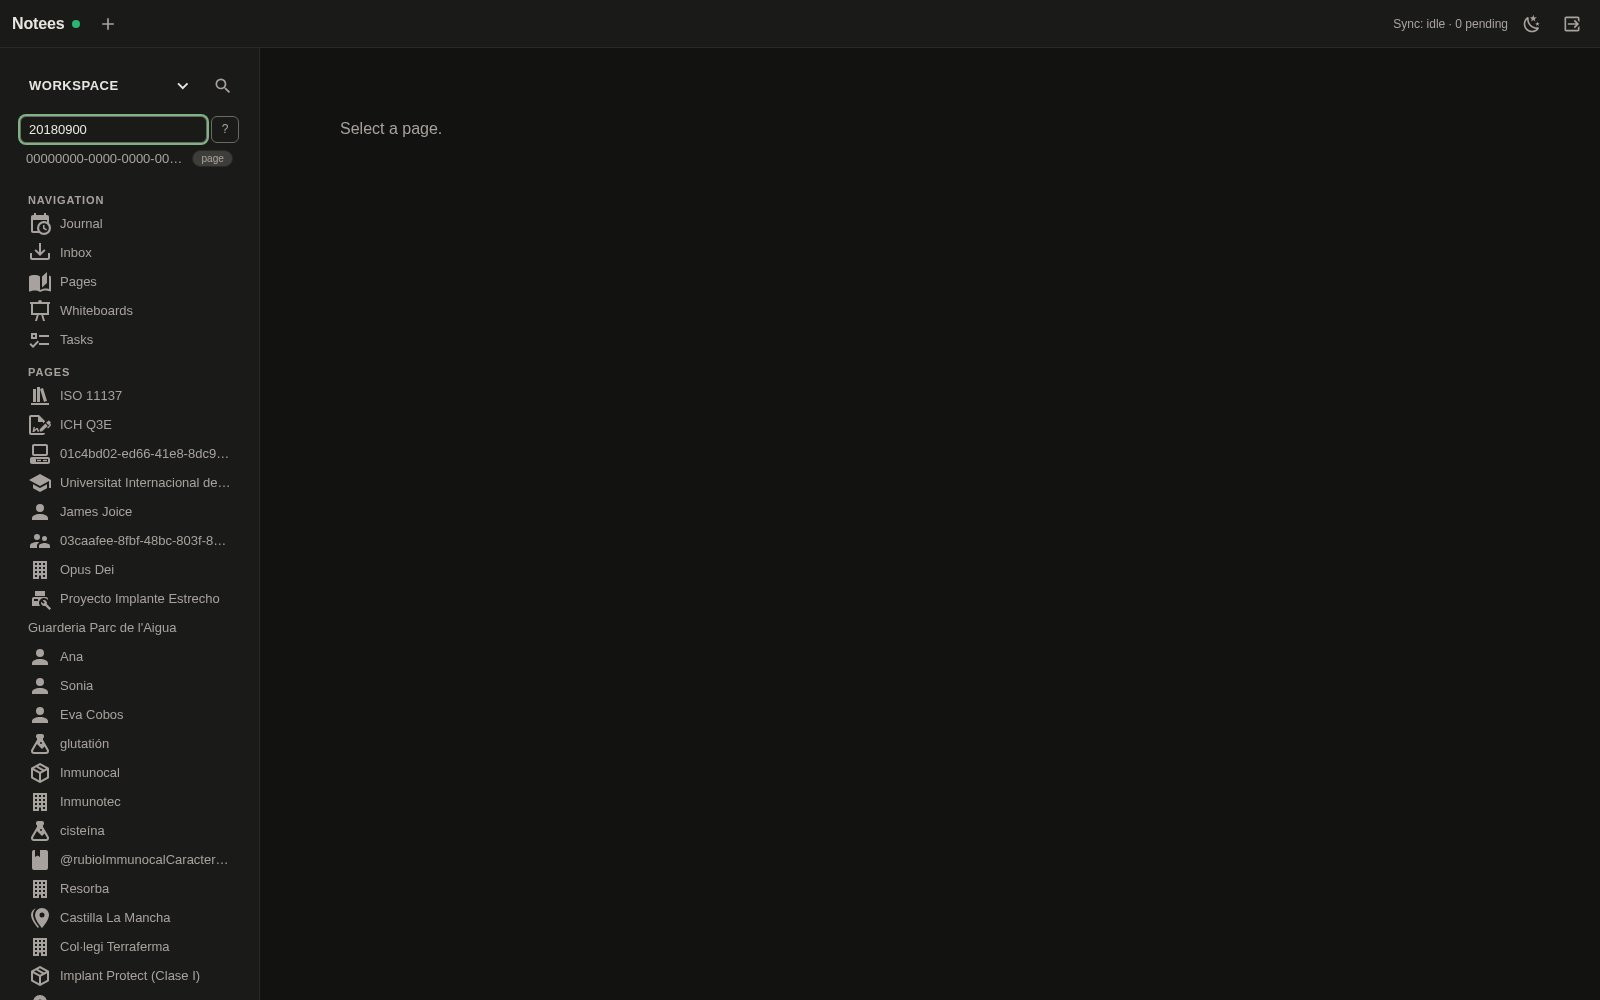
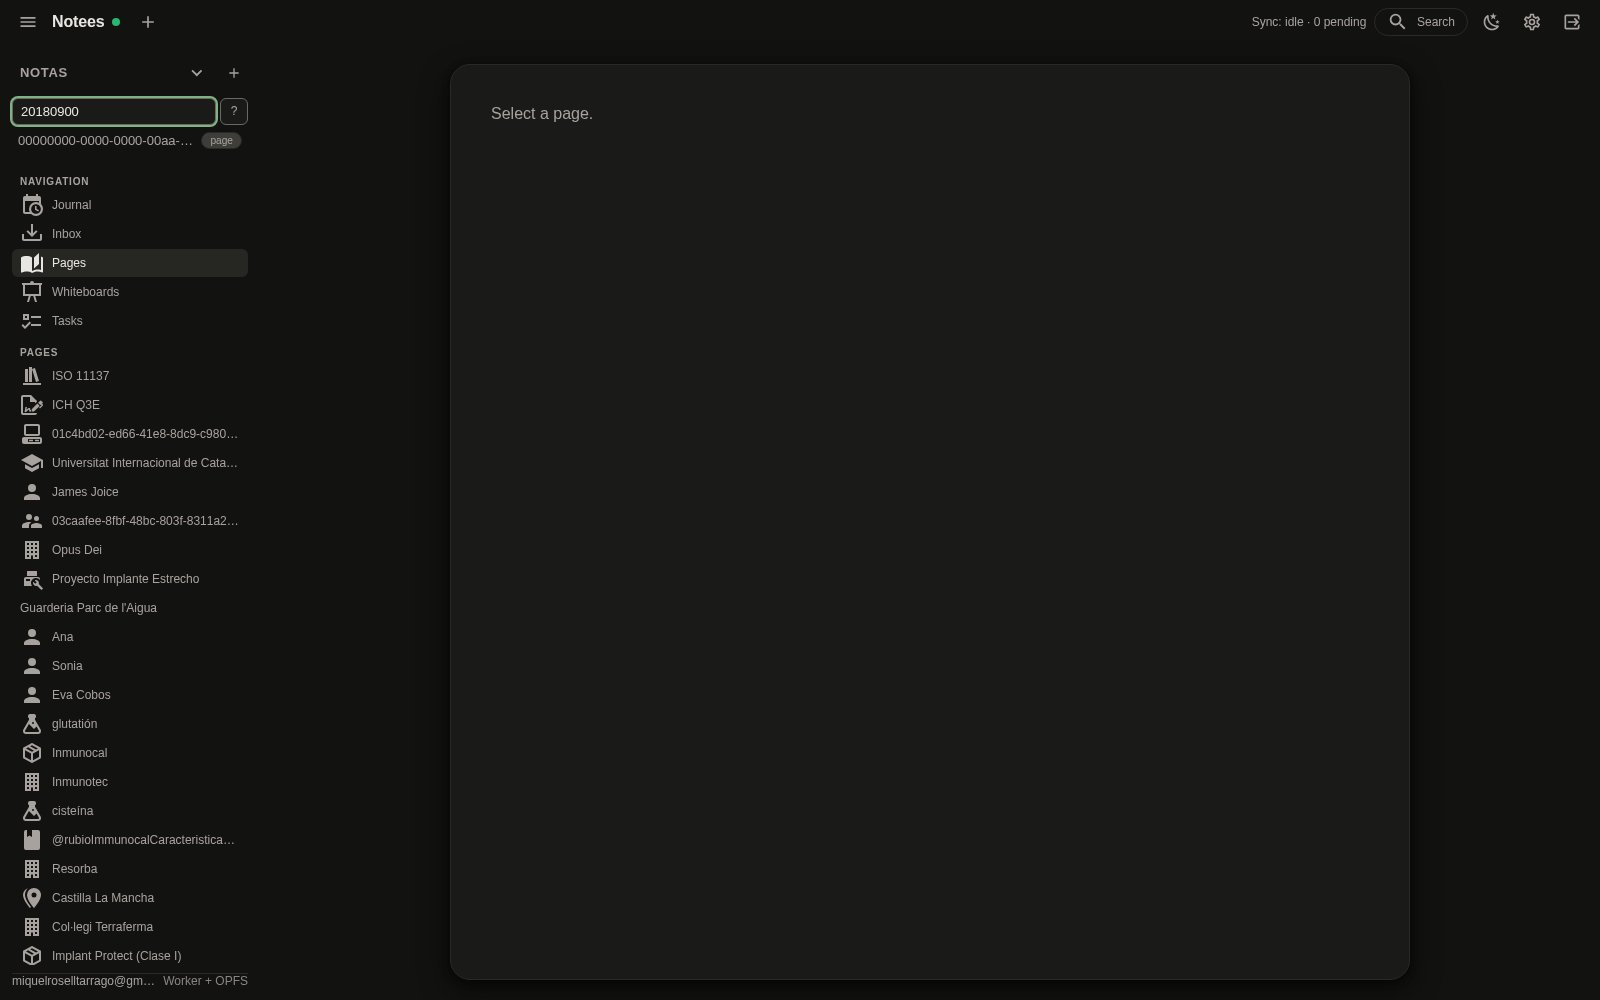
feat(web): wholesale UI port — primitives, editor chrome, pickers, modals
Four-area port of the legacy UI into the v2 app (all components + CSS
transferred 1:1, rewired to the v2 client; no legacy-version mentions in
any file, per the naming rule in the plan):

- components/ui/: Button, Dropdown, Modal, ConfirmationModal, ContextMenu,
  Badge, EmptyState, NotificationToast (+Card/SelectTrigger/Spinner/
  Separator deps, overlay hooks, 16 tests); BackendUnavailableOverlay,
  LoadingSkeleton, toast store + host
- editor-popups/: FloatingToolbar (selection marks), TriggerPopup (/
  slash commands mapped to contentAst shapes), FindReplaceWidget
  (Ctrl+Shift+F), LinkEditModal; wired into BlockTextEditor/PageView
- components/pickers/: NodeSelector popup (search/create/color swatches),
  NodePill, DatePickerPopup/CalendarPopup drill-down, checkbox +
  select-options property controls; MetadataSection rewired onto them
- components/modals/: ExportPageModal (markdown subtree via @notees/export,
  trigger mounted in the page toolbar), DuplicatePageModal,
  CreatePageWithUuidModal, QuickAddModal (Ctrl+Shift+N into Inbox/journal),
  WorkspaceNameModal + server PATCH /workspaces/:id (owner-only, tested)

Store fix surfaced by the port: class.create/class.update now reindex the
class node (classes were invisible to full-text search); query test
expectations updated to the new correct result sets.

Plan: §34.18 pending-UI register added (recovery order + what remains).

811 tests green (229 web incl. 53 new); both images rebuilt, stack
[…]

diff --git a/apps/server/test/auth.test.ts b/apps/server/test/auth.test.ts
@@ -232,6 +232,82 @@ describe("relay authorization for accounts", () => {
   });
 });
 
+describe("workspace rename", () => {
+  it("PATCH /workspaces/:id renames for the owner and refuses non-owners", async () => {
+    server = await makeTestServer();
+    const owner = (await setupAdmin("owner@example.com")).json().token as string;
+
+    // A second account the owner adds as a plain (non-owner) member.
+    const memberUser = server.ctx.auth.createUser({
+      email: "member@example.com",
+      passwordHash: await hashPassword("member-password-1"),
+    });
+    const member = server.ctx.auth.createSession(memberUser.id).token;
+
+    const created = await server.app.inject({
+      method: "POST",
+      url: "/api/v1/workspaces",
+      headers: { authorization: `Bearer ${owner}` },
+      payload: { name: "Old name" },
+    });
+    expect(created.statusCode).toBe(201);
+    const workspaceId = created.json().id as string;
+    server.ctx.auth.addMember(workspaceId, memberUser.id, "member");
+
+    // Non-owner member: forbidden.
+    const byMember = await server.app.inject({
+      method: "PATCH",
+      url: `/api/v1/workspaces/${workspaceId}`,
+      headers: { authorization: `Bearer ${member}` },
+      payload: { name: "Hijacked" },
+    });
+    expect(byMember.statusCode).toBe(403);
+
+    // Unrelated account: the workspace's existence is not revealed.
+    const strangerUser = server.ctx.auth.createUser({
+      email: "stranger@example.com",
+      passwordHash: await hashPassword("stranger-password-1"),
+    });
+    const stranger = server.ctx.auth.createSession(strangerUser.id).token;
+    const byStranger = await server.app.inject({
+      method: "PATCH",
+      url: `/api/v1/workspaces/${workspaceId}`,
+      headers: { authorization: `Bearer ${stranger}` },
+      payload: { name: "Hijacked" },
+    });
+    expect(byStranger.statusCode).toBe(404);
+
+    // Owner: renamed, and the list reflects it.
+    const renamed = await server.app.inject({
+      method: "PATCH",
+      url: `/api/v1/workspaces/${workspaceId}`,
+      headers: { authorization: `Bearer ${owner}` },
+      payload: { name: "New name" },
+    });
+    expect(renamed.statusCode).toBe(200);
+    expect(renamed.json()).toEqual({ id: workspaceId, name: "New name" });
+
+    const list = await server.app.inject({
+      method: "GET",
+      url: "/api/v1/workspaces",
+      headers: { authorization: `Bearer ${owner}` },
+    });
+    const entry = list
+      .json()
+      .workspaces.find((ws: { id: string }) => ws.id === workspaceId);
+    expect(entry.name).toBe("New name");
+
+    // Empty names are rejected outright.
+    const empty = await server.app.inject({
+      method: "PATCH",
+      url: `/api/v1/workspaces/${workspaceId}`,
+      headers: { authorization: `Bearer ${owner}` },
+      payload: { name: "   " },
+    });
+    expect(empty.statusCode).toBe(422);
+  });
+});
+
 describe("api keys", () => {
   it("minted keys authenticate as their owner and list workspaces", async () => {
     server = await makeTestServer();

diff --git a/apps/server/src/routes-auth.ts b/apps/server/src/routes-auth.ts
@@ -10,7 +10,8 @@
  *  - POST /auth/logout        revoke the current session (Bearer token);
  *  - GET  /auth/me            the authenticated account;
  *  - GET  /workspaces         the account's workspaces (membership view);
- *  - POST /workspaces         create a workspace (creator becomes owner).
+ *  - POST /workspaces         create a workspace (creator becomes owner);
+ *  - PATCH /workspaces/:id    rename a workspace (owner-only via membership).
  *
  * Sessions travel in the Authorization: Bearer header or the X-API-Key slot
  * (the sync transport already uses both — see transport.ts).
@@ -43,6 +44,10 @@ const setupBodySchema = z
 
 const createWorkspaceSchema = z
   .object({ name: z.string().trim().max(120).optional() })
+  .strict();
+
+const renameWorkspaceSchema = z
+  .object({ name: z.string().trim().min(1).max(120) })
   .strict();
 
 /** Extracts a credential from X-API-Key, Authorization: Bearer, or ?token=. */
@@ -293,6 +298,26 @@ export function registerAuthRoutes(app: FastifyInstance, ctx: ServerContext): vo
     ctx.auth.addMember(id, principal.userId, "owner");
     reply.code(201);
     return { id, name: parsed.data.name ?? null, role: "owner" };
+  });
+
+  app.patch("/workspaces/:id", async (request) => {
+    const { principal } = requireAccount(ctx, request);
+    const { id } = request.params as { id: string };
+    const parsed = renameWorkspaceSchema.safeParse(request.body);
+    if (!parsed.success) {
+      throw new AppError(422, "validation_failed", parsed.error.issues[0]?.message ?? "invalid workspace rename request");
+    }
+    // Owner-only via membership: non-members get a 404 (the workspace's
+    // existence is not revealed), members without the owner role get a 403.
+    const role = ctx.auth.membership(id, principal.userId);
+    if (role === null) {
+      throw new AppError(404, "not_found", "no such workspace");
+    }
+    if (role !== "owner") {
+      throw new AppError(403, "forbidden", "only the workspace owner can rename it");
+    }
+    ctx.auth.renameWorkspace(id, parsed.data.name);
+    return { id, name: parsed.data.name };
   });
 
   // --- API keys (session-managed; the keys themselves authenticate as the user) ----

diff --git a/packages/query/test/query.test.ts b/packages/query/test/query.test.ts
@@ -876,8 +876,9 @@ describe.each(adapters)("$name", ({ makeStore }) => {
 
     it("fts matches whole-token prefixes; contains matches any substring", () => {
       const store = worldStore();
-      // "ity" is a substring of "city" but no token STARTS with it.
-      expect(runQuery(store, ast(entire, [{ type: "content", op: "contains", value: "ity" }])).ids).toEqual([FR_BLOCK]);
+      // "ity" is a substring of "city" but no token STARTS with it. Classes
+      // are indexed nodes, so the City class also matches the substring arm.
+      expect(runQuery(store, ast(entire, [{ type: "content", op: "contains", value: "ity" }])).ids.sort()).toEqual([CITY, FR_BLOCK].sort());
       expect(runQuery(store, ast(entire, [{ type: "content", op: "fts", value: "ity" }])).ids).toEqual([]);
       // Prefix-AND across terms: both tokens must be present.
       expect(runQuery(store, ast(entire, [{ type: "content", op: "fts", value: "capital france" }])).ids).toEqual([PARIS_BLOCK]);

diff --git a/packages/store/test/store.test.ts b/packages/store/test/store.test.ts
@@ -1341,6 +1341,18 @@ describe.each(adapters)("$name", ({ makeBackend }) => {
     });
   });
 
+  describe("class search indexing", () => {
+    it("classes are findable by name at create and after rename", () => {
+      const store = baseStore();
+      const id = "c0000000-0000-7000-8000-0000000000c9";
+      store.apply(env("class.create", { classId: id, name: "Zymurgy" }, 1727200001500));
+      expect(store.search("Zymurgy").map((hit) => hit.nodeId)).toContain(id);
+      store.apply(env("class.update", { classId: id, name: "Zymurgics" }, 1727200001600));
+      expect(store.search("Zymurgy")).toEqual([]);
+      expect(store.search("Zymurgics").map((hit) => hit.nodeId)).toContain(id);
+    });
+  });
+
   describe("local op log (durable offline backlog)", () => {
     it("records local envelopes, lists unpushed, marks pushed, prunes", () => {
       const store = baseStore();

diff --git a/packages/store/src/appliers.ts b/packages/store/src/appliers.ts
@@ -612,6 +612,9 @@ function applyClassCreate(db: StoreDatabase, env: Envelope): ChangeSummary {
     p.classId,
     p.classId,
   );
+  // Classes are nodes: index the new class so full-text search finds it by
+  // name (the picker and global search both rely on this).
+  reindexNode(db, p.classId);
   return summary(opType, [p.classId]);
 }
 
@@ -641,6 +644,9 @@ function applyClassUpdate(db: StoreDatabase, env: Envelope): ChangeSummary {
   values.push(env.timestamp, p.classId);
   db.prepare(`UPDATE class SET ${sets.join(", ")} WHERE id = ?`).run(...values);
   upsertClassNode(db, env, p.classId, { name: p.name, icon: p.icon, color: p.color });
+  // A rename re-renders the class unfindable under its old name — reindex
+  // whenever the indexed fields may have changed.
+  if (p.name !== undefined) reindexNode(db, p.classId);
   return summary(opType, [p.classId]);
 }
 

diff --git a/apps/server/src/auth.ts b/apps/server/src/auth.ts
@@ -402,6 +402,13 @@ export class AuthStorage {
     return id;
   }
 
+  /** Rename an existing workspace; no-op when the workspace row is missing. */
+  renameWorkspace(workspaceId: string, name: string): void {
+    this.db
+      .prepare("UPDATE workspace SET name = ? WHERE id = ?")
+      .run(name, workspaceId);
+  }
+
   addMember(workspaceId: string, userId: string, role = "owner"): void {
     this.db
       .prepare(

diff --git a/.plans/2026-09-24-object-graph-pim-evolution/assessment.md b/.plans/2026-09-24-object-graph-pim-evolution/assessment.md
@@ -1091,3 +1091,23 @@ The rewrite's web UI was rebuilt as a minimal shell and dropped the previous UI'
 2. **Naming rule (permanent): no "v1" mentions in UI files** — no v1-prefixed directories, class names, identifiers, or comments anywhere in apps/web (provenance lives in git history, not in code). Applies to all future UI work.
 3. **Recovery scope, in order**: app chrome + layout, breadcrumbs, metadata section, system sections (linked references / child pages / unlinked references), command palette; then editor chrome visuals; other view modes (graph, kanban, covers/display modes) in later passes. Owner explicitly does not want page tabs in the topbar.
 4. **Chrome features the plan must now carry** (were unplanned, now scheduled by this directive): breadcrumbs, metadata section, system sections, command palette. The editor-mechanics list in §34.10 stands unchanged.
+
+### 34.18 Pending UI register (owner, 2026-09-30 — full port directive)
+
+The pre-rewrite UI is being transferred wholesale (components + CSS, adapted to the v2 client) for every feature v2 implements. This register tracks what remains pending after each port pass.
+
+**Ported / in progress (this pass):** app chrome (topbar, sidebar sections, workspace switcher, command palette), floating content card, breadcrumbs, metadata section, system sections (linked/unlinked references, child pages), section chrome.
+
+**Pending (scheduled, in priority order):**
+1. Editor chrome: slash/trigger popup, floating toolbar, find & replace, link-edit modal, markdown autoformat, undo/redo — §34.10 M1 mechanics, visual transfer from the archive.
+2. Metadata pickers: class/tag/alias selector popups (search + create + color), date picker popup, property editor controls (select/multi-select/boolean/date).
+3. Modals for existing features: export page, duplicate page, create-page-with-uuid, quick-add, workspace rename.
+4. UI primitives kit: Button/Dropdown/Modal/Confirmation/ContextMenu/Badge/EmptyState/Toast as shared components (reused by everything above).
+5. Overlays: backend-unavailable, notification toast wiring, empty/loading skeletons.
+6. Right-sidebar cards + hover floating node view (§34.10 M2), embeds with live updates.
+7. Covers/banners + card display modes (no-cover / cover-left / cover-right / cover-top).
+8. Views over the query engine: table/kanban/calendar/chart/gantt/pivot, graph view (needs its own portability decision), document view (deliberate bet against — §34.10).
+9. Surfaces: journals/tasks pages, import modals, shares UI, notification center, plugin UI, mobile layout.
+10. Accent-color variants (sage/teal/rose/navy) + icon picker.
+
+Rule: items land in the order above unless the owner re-prioritizes; each port pass must end with the deployed stack verified by screenshots in both themes.
